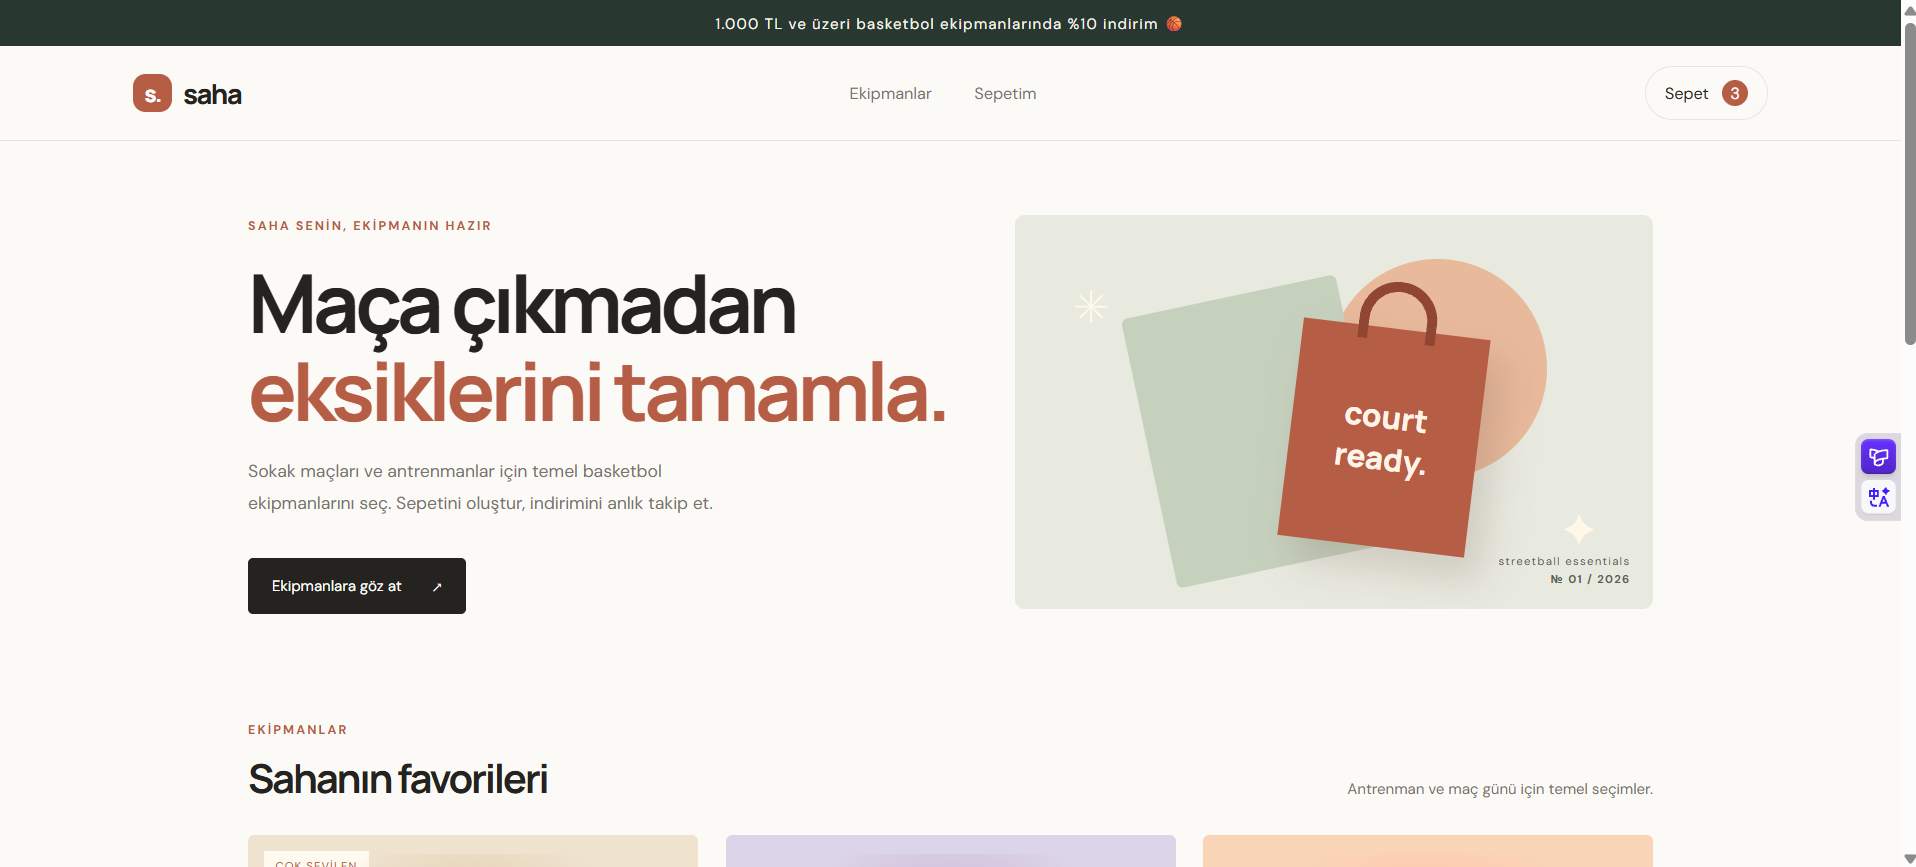
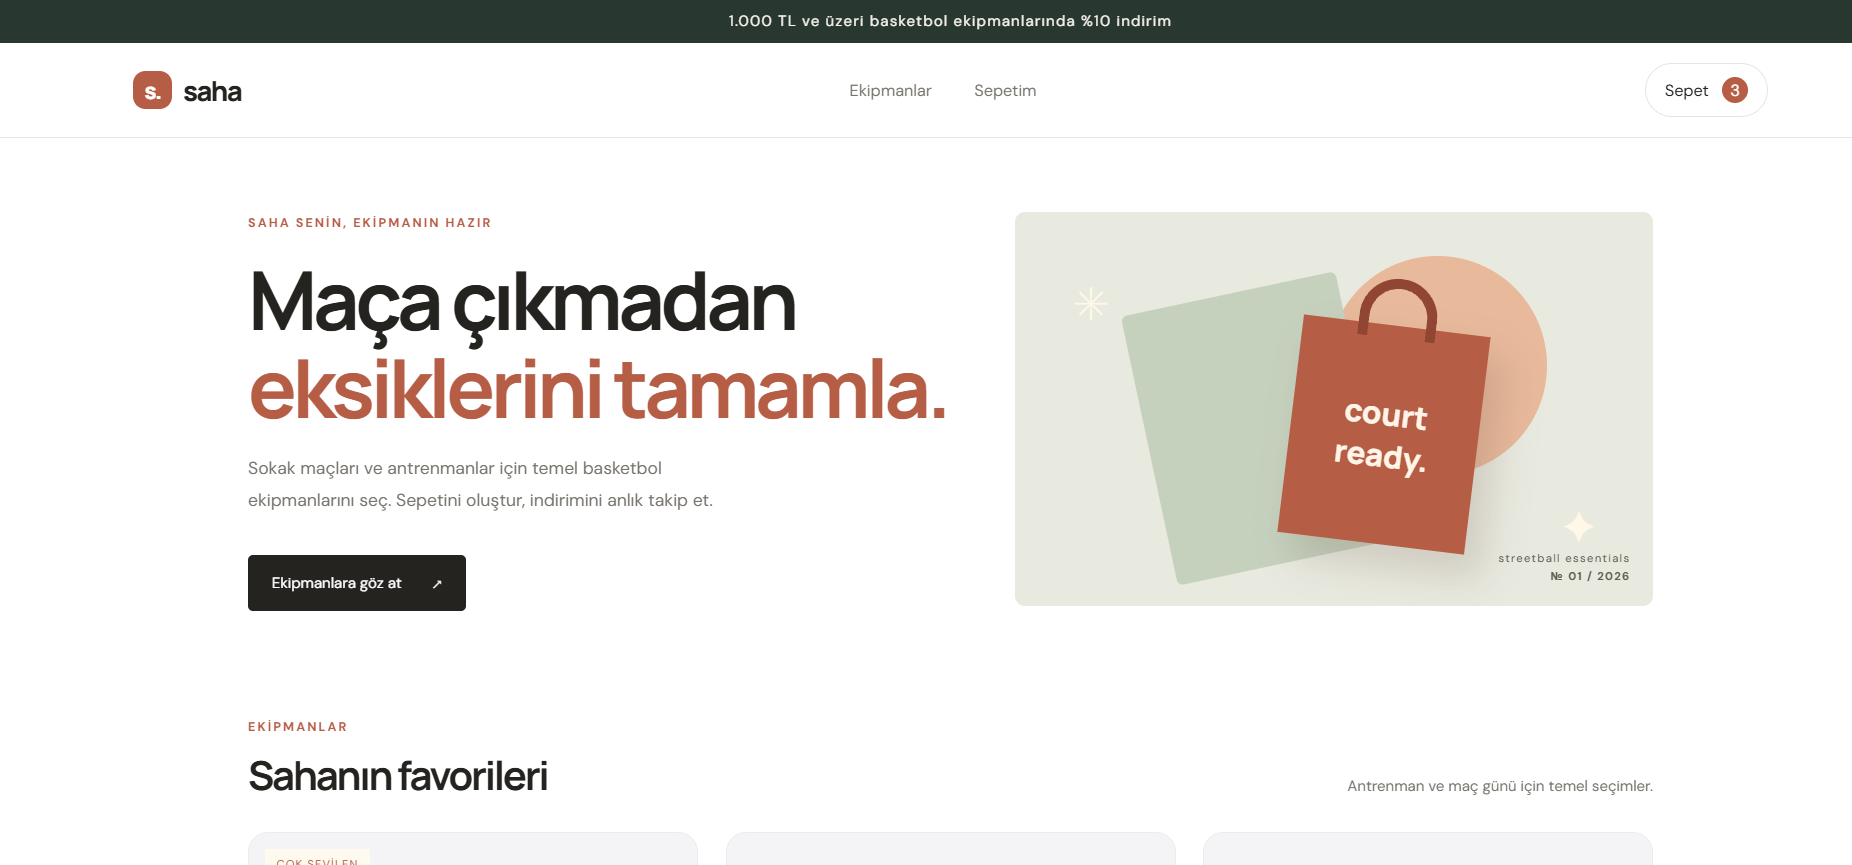
Guncellendi

diff --git a/index.html b/index.html
@@ -10,9 +10,25 @@
   <link href="https://fonts.googleapis.com/css2?family=DM+Sans:wght@400;500;600;700&family=Manrope:wght@500;600;700;800&display=swap" rel="stylesheet">
   <link rel="stylesheet" href="css/style.css">
   <script src="js/app.js" defer></script>
+  <style>
+    body {
+      background-color: #ffffff;
+    }
+    .product-visual {
+      background-color: #f4f4f6 !important;
+      border-radius: 16px;
+      border: 1px solid #ececef;
+    }
+    .cart-item-visual, .cart-thumb {
+      background-color: #f4f4f6 !important;
+    }
+    .cart-item-visual img, .cart-thumb img {
+      mix-blend-mode: multiply;
+    }
+  </style>
 </head>
 <body>
-  <div class="announcement">1.000 TL ve üzeri basketbol ekipmanlarında %10 indirim 🏀</div>
+  <div class="announcement">1.000 TL ve üzeri basketbol ekipmanlarında %10 indirim</div>
   <header class="site-header">
     <a class="brand" href="#" aria-label="Saha ana sayfa"><span class="brand-mark">s.</span><span>saha</span></a>
     <nav aria-label="Ana menü"><a href="#products">Ekipmanlar</a><a href="#cart">Sepetim</a></nav>
@@ -42,23 +58,23 @@
 
     <section class="product-grid" aria-label="Ürün listesi">
       <article class="product-card">
-        <div class="product-visual visual-cream" style="display: flex; align-items: center; justify-content: center; padding: 16px; background: #efe3d0;">
+        <div class="product-visual" style="display: flex; align-items: center; justify-content: center; padding: 20px; background: #f4f4f6;">
           <span class="product-tag">ÇOK SEVİLEN</span>
-          <img src="img/ball.png" alt="Outdoor Basketbol Topu" style="width: 190px; height: 190px; object-fit: contain; -webkit-mask-image: radial-gradient(circle, black 58%, transparent 95%); mask-image: radial-gradient(circle, black 58%, transparent 95%);">
+          <img src="img/ball.png" alt="Outdoor Basketbol Topu" style="width: 185px; height: 185px; object-fit: contain; mix-blend-mode: multiply;">
         </div>
         <div class="product-info"><div><h3>Outdoor Basketbol Topu</h3><p>No. 7 · Sokak ve salon</p></div><strong>₺ 450</strong></div>
         <button class="add-button" data-add="ball">Sepete ekle <span>+</span></button>
       </article>
       <article class="product-card">
-        <div class="product-visual visual-lilac" style="display: flex; align-items: center; justify-content: center; padding: 16px; background: #dcd4e8;">
-          <img src="img/headband.png" alt="Spor Kafa Bandı" style="width: 190px; height: 190px; object-fit: contain; -webkit-mask-image: radial-gradient(circle, black 58%, transparent 95%); mask-image: radial-gradient(circle, black 58%, transparent 95%);">
+        <div class="product-visual" style="display: flex; align-items: center; justify-content: center; padding: 20px; background: #f4f4f6;">
+          <img src="img/headband.png" alt="Spor Kafa Bandı" style="width: 185px; height: 185px; object-fit: contain; mix-blend-mode: multiply;">
         </div>
         <div class="product-info"><div><h3>Spor Kafa Bandı</h3><p>Ter emici · Esnek kumaş</p></div><strong>₺ 220</strong></div>
         <button class="add-button" data-add="headband">Sepete ekle <span>+</span></button>
       </article>
       <article class="product-card">
-        <div class="product-visual visual-peach" style="display: flex; align-items: center; justify-content: center; padding: 16px; background: #f9d4b6;">
-          <img src="img/bottle.png" alt="Çelik Spor Matarası" style="width: 190px; height: 190px; object-fit: contain; -webkit-mask-image: radial-gradient(circle, black 58%, transparent 95%); mask-image: radial-gradient(circle, black 58%, transparent 95%);">
+        <div class="product-visual" style="display: flex; align-items: center; justify-content: center; padding: 20px; background: #f4f4f6;">
+          <img src="img/bottle.png" alt="Çelik Spor Matarası" style="width: 185px; height: 185px; object-fit: contain; mix-blend-mode: multiply;">
         </div>
         <div class="product-info"><div><h3>Çelik Spor Matarası</h3><p>800 ml · Isı yalıtımlı</p></div><strong>₺ 380</strong></div>
         <button class="add-button" data-add="bottle">Sepete ekle <span>+</span></button>
@@ -75,7 +91,13 @@
       </div>
       <div class="cart-layout">
         <div class="cart-items" id="cart-items">
-          <div class="empty-cart"><span>🏀</span><h3>Sepetin henüz boş</h3><p>Saha ekipmanlarını sepete ekleyerek başlayabilirsin.</p></div>
+          <div class="empty-cart">
+            <span style="display: inline-flex; justify-content: center; margin-bottom: 8px; color: #555;">
+              <svg width="36" height="36" viewBox="0 0 24 24" fill="none" stroke="currentColor" stroke-width="1.6" stroke-linecap="round" stroke-linejoin="round"><path d="M6 2L3 6v14a2 2 0 0 0 2 2h14a2 2 0 0 0 2-2V6l-3-4z"></path><line x1="3" y1="6" x2="21" y2="6"></line><path d="M16 10a4 4 0 0 1-8 0"></path></svg>
+            </span>
+            <h3>Sepetin henüz boş</h3>
+            <p>Saha ekipmanlarını sepete ekleyerek başlayabilirsin.</p>
+          </div>
         </div>
         <aside class="summary-card">
           <h3>Sipariş özeti</h3>
@@ -85,7 +107,10 @@
           <div class="summary-line total"><span>Genel toplam</span><strong id="grand-total">₺ 0,00</strong></div>
           <p class="discount-note" id="discount-note">₺ 1.000 ve üzeri alışverişte %10 indirim fırsatı.</p>
           <button class="checkout-button" id="checkout-button">Siparişi tamamla <span>→</span></button>
-          <p class="secure-note">♡ Güvenli ve keyifli alışveriş</p>
+          <p class="secure-note" style="display: flex; align-items: center; justify-content: center; gap: 6px;">
+            <svg width="14" height="14" viewBox="0 0 24 24" fill="none" stroke="currentColor" stroke-width="2" stroke-linecap="round" stroke-linejoin="round"><rect x="3" y="11" width="18" height="11" rx="2" ry="2"></rect><path d="M7 11V7a5 5 0 0 1 10 0v4"></path></svg>
+            Güvenli ve hızlı alışveriş
+          </p>
         </aside>
       </div>
     </section>

diff --git a/js/app.js b/js/app.js
@@ -102,7 +102,9 @@ function renderCart() {
   if (cart.length === 0) {
     cartItemsElement.innerHTML = `
       <div class="empty-cart">
-        <span>🏀</span>
+        <span style="display: inline-flex; justify-content: center; margin-bottom: 8px; color: #555;">
+          <svg width="36" height="36" viewBox="0 0 24 24" fill="none" stroke="currentColor" stroke-width="1.6" stroke-linecap="round" stroke-linejoin="round"><path d="M6 2L3 6v14a2 2 0 0 0 2 2h14a2 2 0 0 0 2-2V6l-3-4z"></path><line x1="3" y1="6" x2="21" y2="6"></line><path d="M16 10a4 4 0 0 1-8 0"></path></svg>
+        </span>
         <h3>Sepetin henüz boş</h3>
         <p>Saha ekipmanlarını sepete ekleyerek başlayabilirsin.</p>
       </div>
@@ -110,8 +112,8 @@ function renderCart() {
   } else {
     cartItemsElement.innerHTML = cart.map(item => `
       <div class="cart-row">
-        <div class="cart-thumb" style="padding: 0; overflow: hidden;">
-          <img src="${item.image}" alt="${item.name}" style="width: 100%; height: 100%; object-fit: cover;">
+        <div class="cart-thumb" style="padding: 6px; overflow: hidden; background: #f4f4f6;">
+          <img src="${item.image}" alt="${item.name}" style="width: 100%; height: 100%; object-fit: contain; mix-blend-mode: multiply;">
         </div>
         <div class="cart-product">
           <h4>${item.name}</h4>
